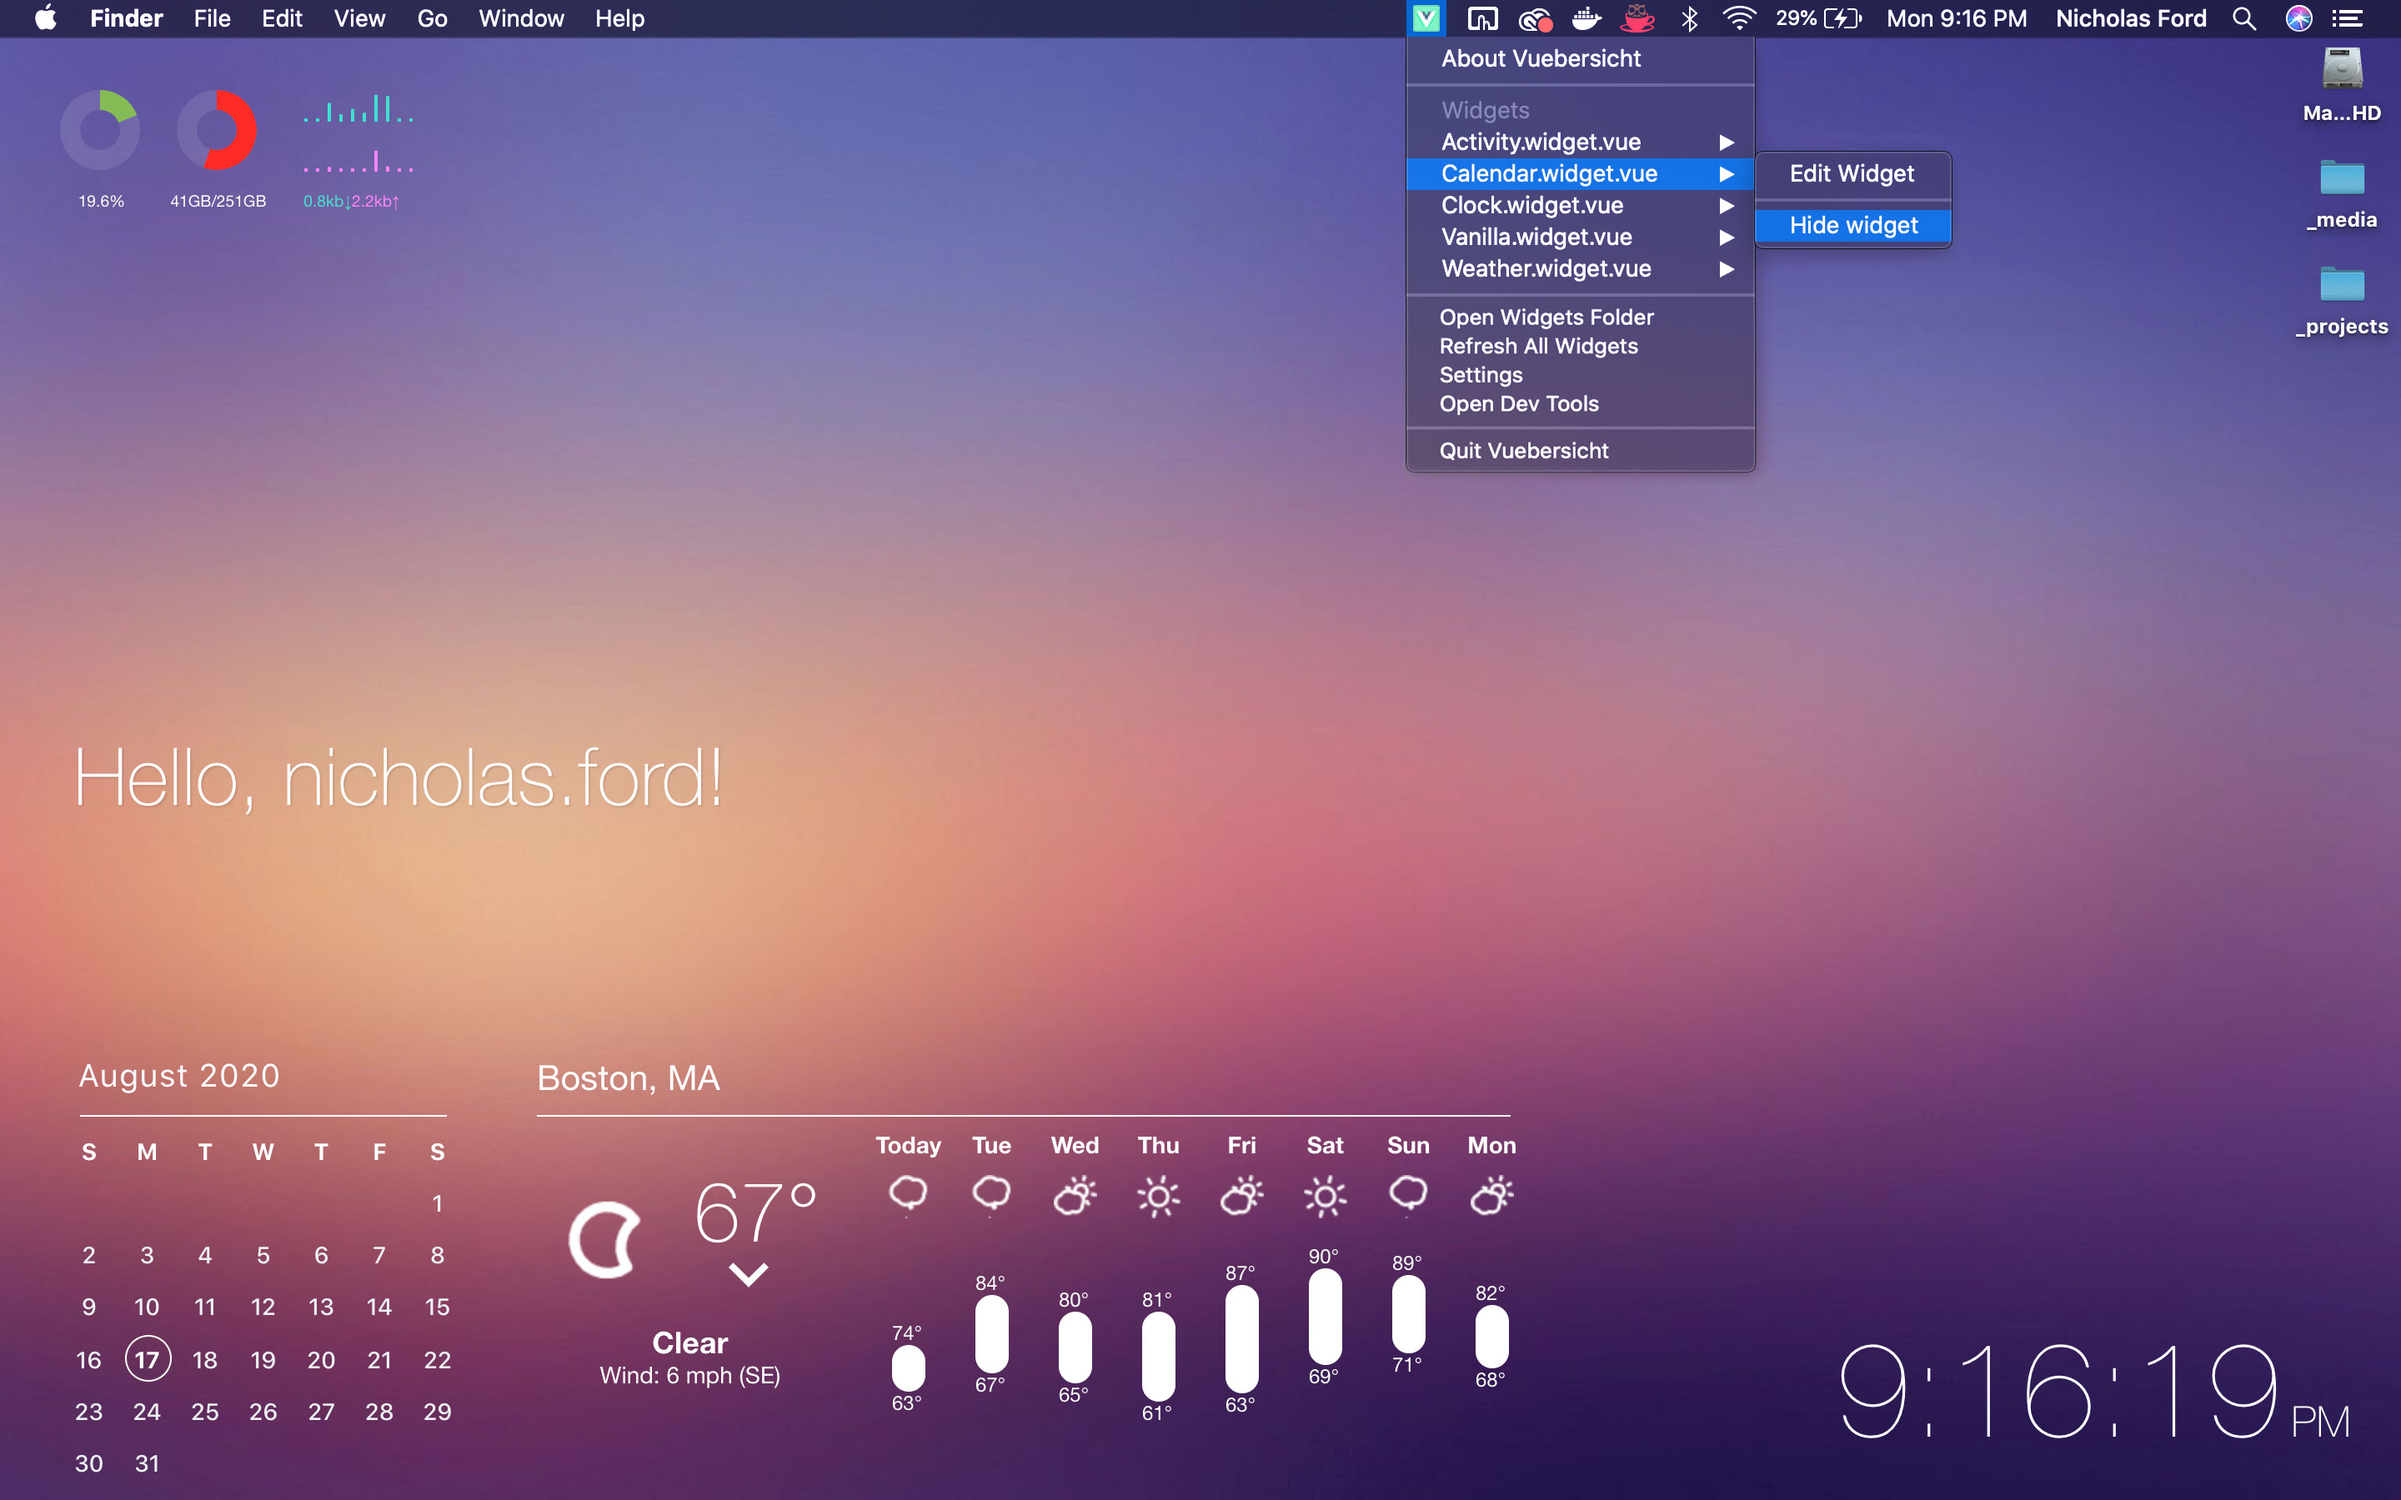
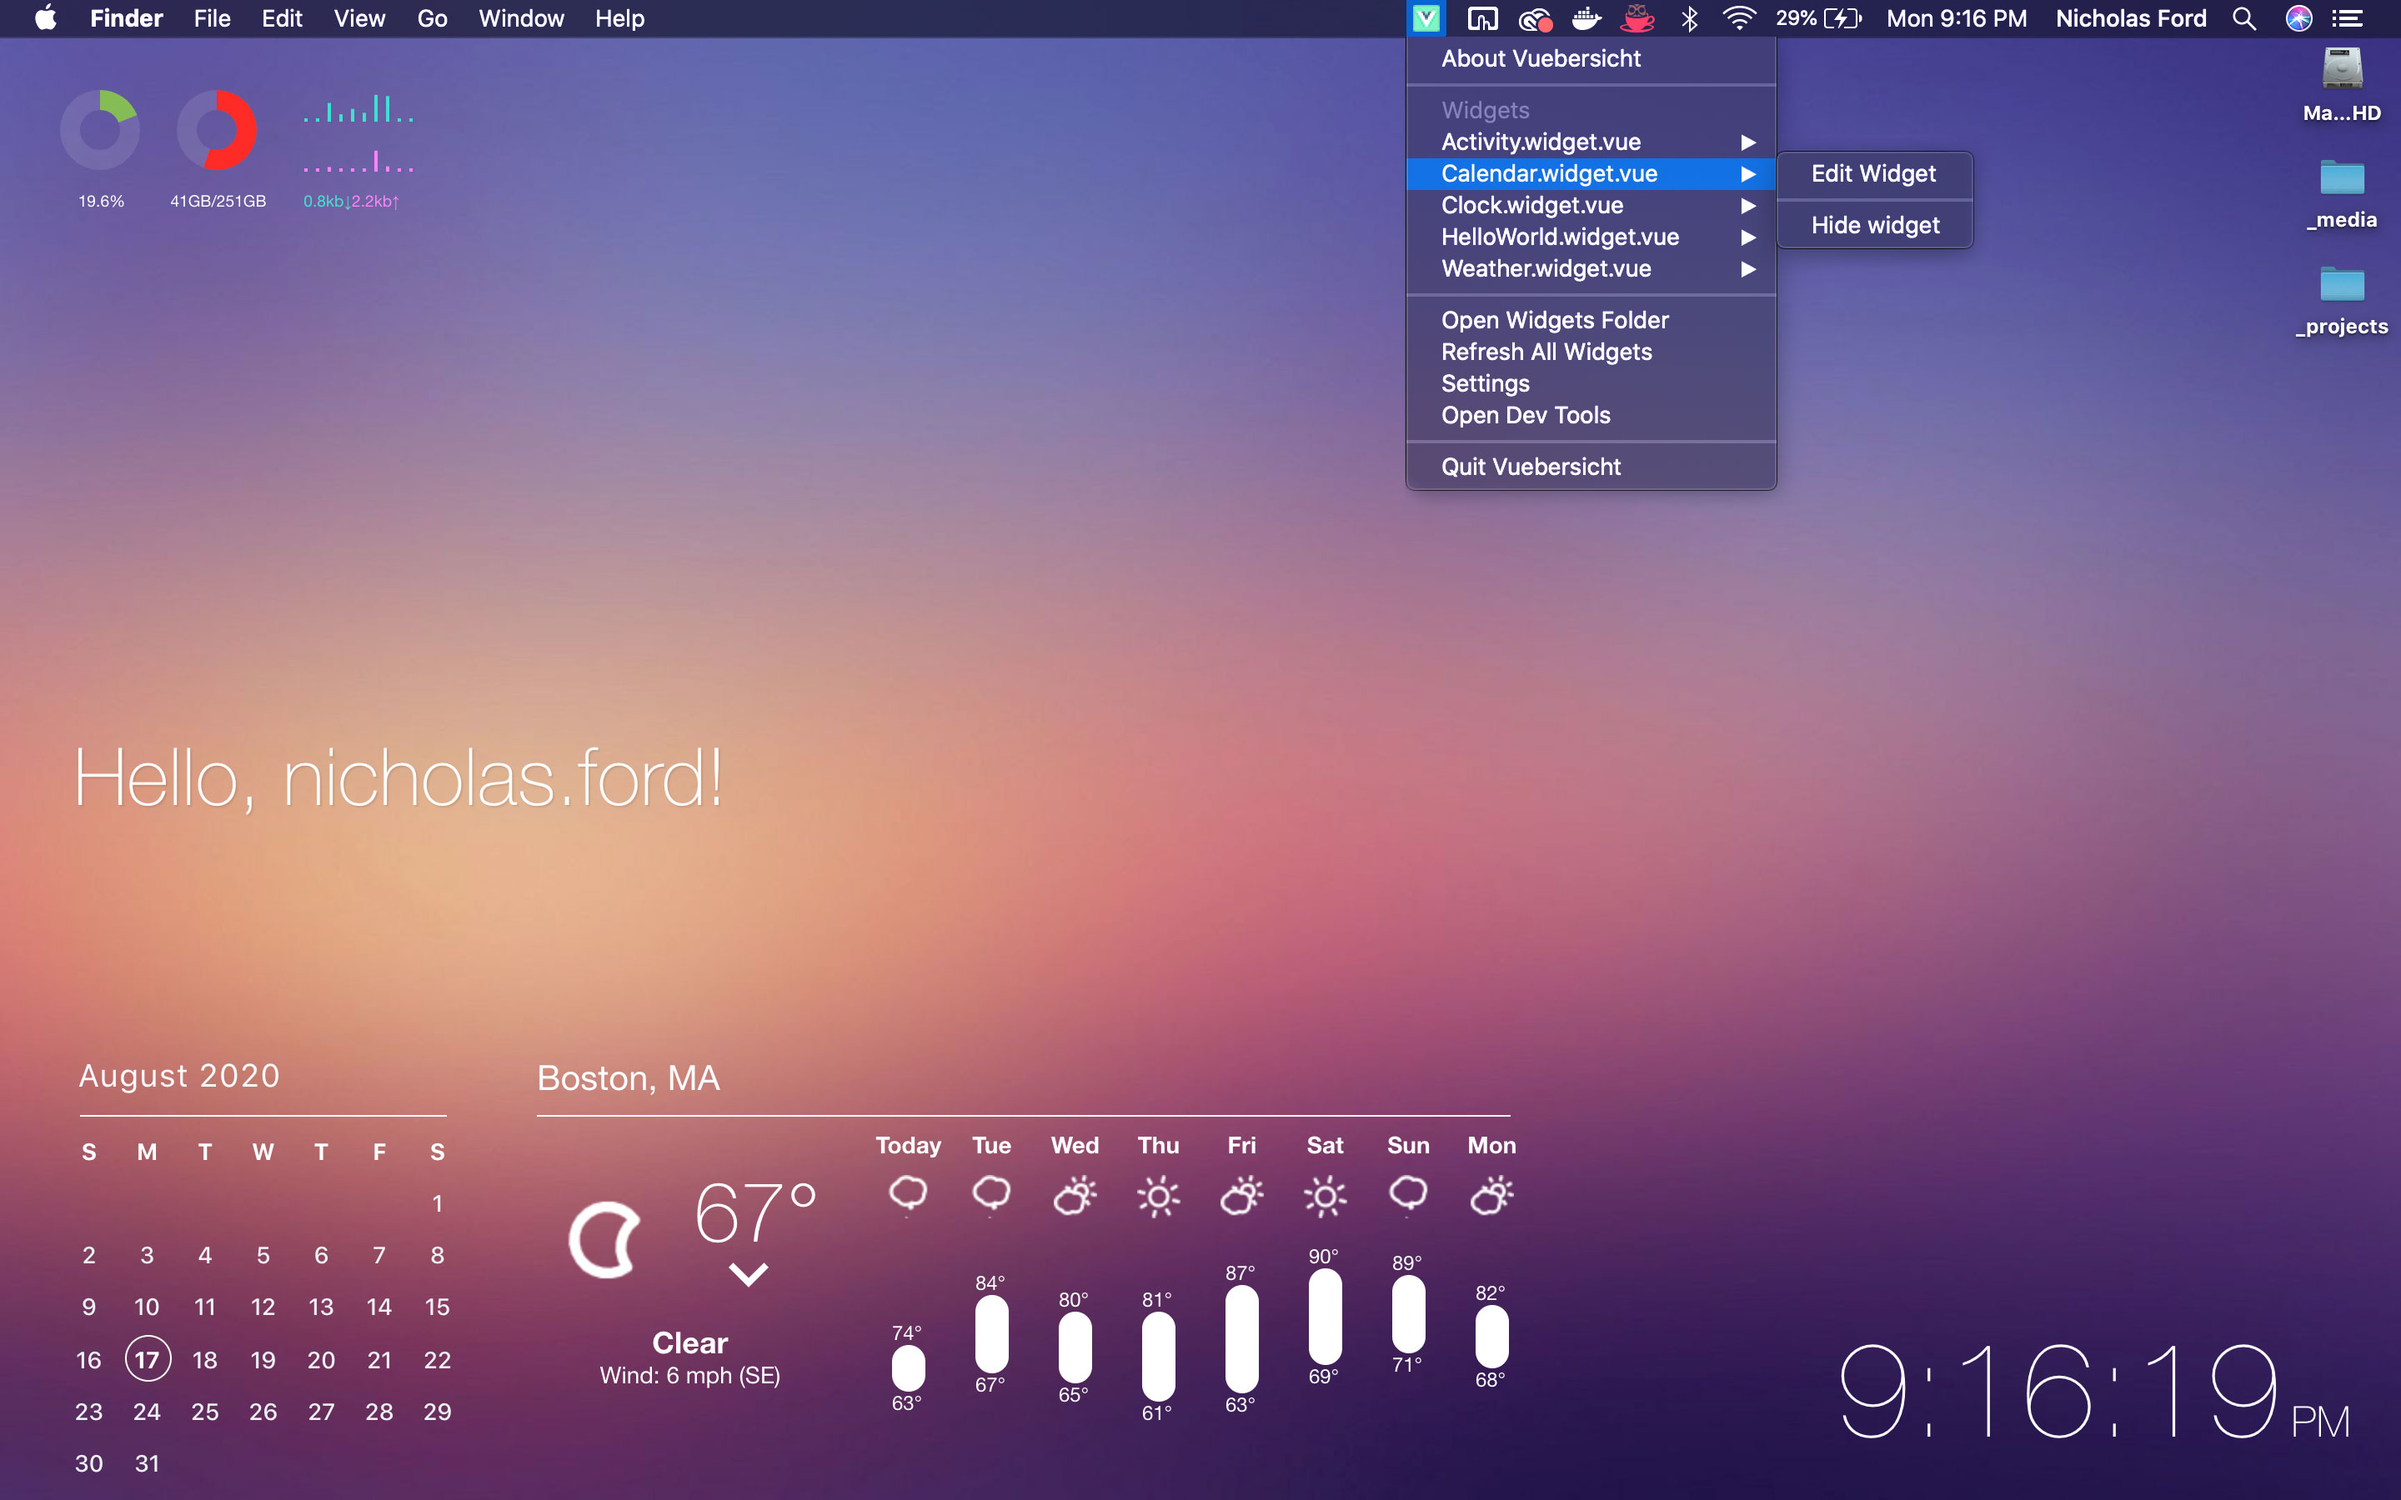
fix disk space graph and update menu screenshot

Changed region(s): [[0.5625, 0.0311, 0.8438, 0.3422]]

diff --git a/src/widgets/Activity/Disk.vue b/src/widgets/Activity/Disk.vue
@@ -54,7 +54,7 @@ export default class Disk extends Vue {
           label: 'Activity',
           borderColor: 'transparent',
           backgroundColor: [color, 'rgba(255, 255, 255, 0.1)'],
-          data: [used, used - free],
+          data: [used, free],
         },
       ],
     }
